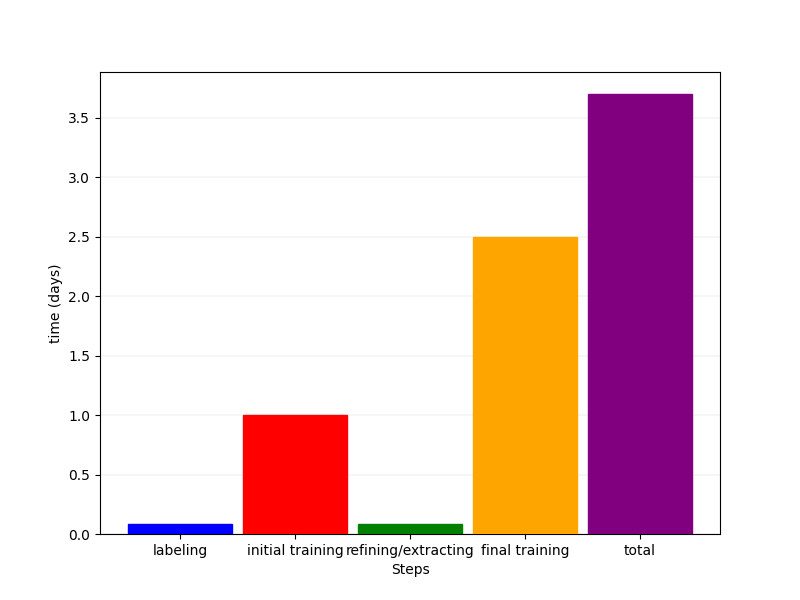
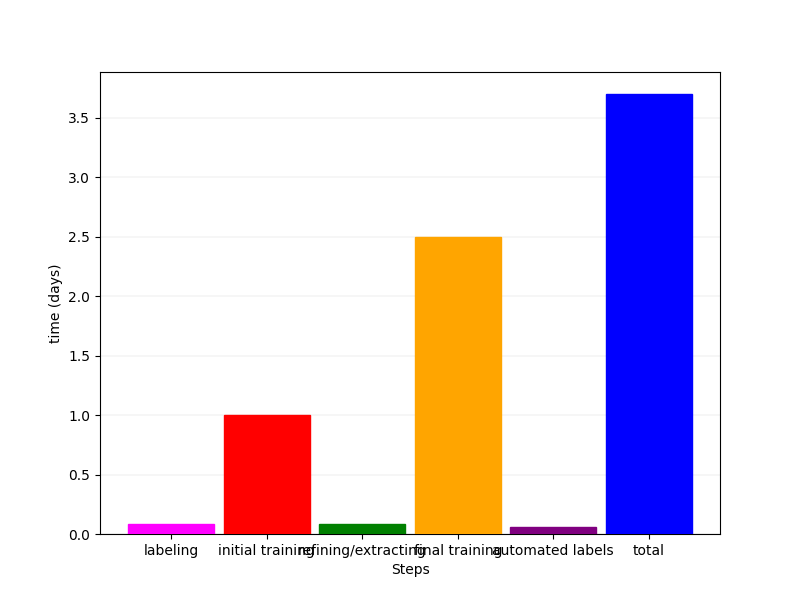
DLC update

Changed region(s): [[0.1562, 0.15, 0.875, 0.93]]

diff --git a/DeepLabCut/DLC_jump_analysis/all_trackers/time_performance.py b/DeepLabCut/DLC_jump_analysis/all_trackers/time_performance.py
@@ -6,11 +6,11 @@ import os
 
 def time_per(fname1, fname2):
     w = .9
-    x = [1, 2, 3, 4, 5]
+    x = [1, 2, 3, 4, 5, 6]
     #one_animal_model = np.array([.07, 1, .07, 2.5, 3.6]) #time of steps for single model construction (10 vids)
     #combined_animal_model = np.array([.11, 1, .11, 2.5, 3.72]) #16 vids for combined model
-    one_animal_model = np.array([.08, 1, .08, 2.5, 3.7]) #12 vids for single model 
-    colors = ['blue', 'red', 'green', 'orange', 'purple']
+    one_animal_model = np.array([.08, 1, .08, 2.5, .06, 3.7]) #12 vids for single model 
+    colors = ['fuchsia', 'red', 'green', 'orange', 'purple', 'blue']
     #labeling: 10 min/vid --> 120 min (12 vids) --> 2 hrs --> .08 days
     #initial training: 1440 min = 24 hrs training --> 1 day
     #refine/extract outlier frames: 10 min/vid --> 120 min (12 vids) --> 2 hrs --> .08 days
@@ -23,7 +23,7 @@ def time_per(fname1, fname2):
     plt.bar(x, 
            one_animal_model,
            width=w,
-           tick_label=["labeling", "initial training", "refining/extracting", "final training", "total"],
+           tick_label=["labeling", "initial training", "refining/extracting", "final training", "automated labels", "total"],
            color=colors,
            edgecolor=colors,
            zorder=3
@@ -44,7 +44,7 @@ def time_per(fname1, fname2):
     plt.close()
 
     #Second graph: Time to build 5 models corresponding to 5 animals 
-    total_time_one_animal = one_animal_model[4]
+    total_time_one_animal = one_animal_model[5]
     two_animal_models = np.multiply(total_time_one_animal, 2)
     three_animal_models = np.multiply(total_time_one_animal, 3)
     three_animal_models_rounded = np.round(three_animal_models)
@@ -53,20 +53,43 @@ def time_per(fname1, fname2):
     y = total_time_one_animal, two_animal_models, three_animal_models_rounded, four_animal_models, five_animal_models
     y2 = [total_time_one_animal, total_time_one_animal, total_time_one_animal, total_time_one_animal, total_time_one_animal]
 
-    plt.plot(x, y, marker='.')
-    plt.plot(x,y2)
+    x2 = [1, 2, 3, 4, 5]
+    plt.plot(x2, y, marker='.')
+    plt.plot(x2,y2)
     plt.legend(['Single Models', 'Combined Model'])
-    plt.xticks(np.arange(min(x), max(x)+1, 1.0), ['1', '2', '3', '4', '5'])
+    plt.xticks(np.arange(min(x2), max(x2)+1, 1.0), ['1', '2', '3', '4', '5'])
     
-    for i, j in zip(x, y):
-       plt.text(i-.1, j-.9, '{}'.format(j))
+    for i, j in zip(x2, y):
+       plt.text(i-.1, j-1.2, '{}'.format(j))
 
 
     plt.grid(color='grey', linestyle='-', linewidth=.1)
     plt.ylim(0,20)
     #plt.title("Model Time (12 training videos)")
     plt.xlabel("Num. of rats")
-    plt.ylabel("Analysis time (days)")
+    plt.ylabel("Total Analysis Time (days)")
+    figure = plt.gcf()
+    figure.set_size_inches(8, 6)
+    plt.savefig(fname2, dpi=100)
+    plt.show()
+    plt.close()
+
+
+    x2 = [1, 2, 3, 4, 5]
+    plt.plot(x2, y, marker='.')
+    plt.plot(x2,y2)
+    plt.legend(['Single Models', 'Combined Model'])
+    plt.xticks(np.arange(min(x2), max(x2)+1, 1.0), ['1', '2', '3', '4', '5'])
+    
+    for i, j in zip(x2, y):
+       plt.text(i-.1, j-1.2, '{}'.format(j))
+
+
+    plt.grid(color='grey', linestyle='-', linewidth=.1)
+    plt.ylim(0,20)
+    #plt.title("Model Time (12 training videos)")
+    plt.xlabel("Num. of rats")
+    plt.ylabel("Total Analysis Time (days)")
     figure = plt.gcf()
     figure.set_size_inches(8, 6)
     plt.savefig(fname2, dpi=100)
